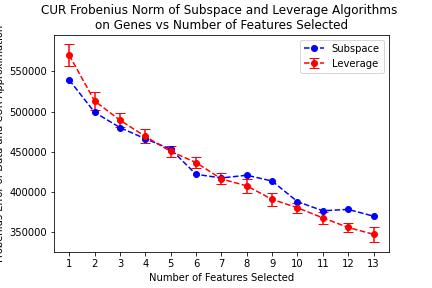
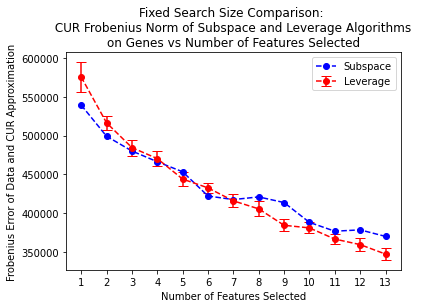
added graph for runtime comparison

Changed region(s): [[0.0, 0.0, 0.9858, 1.0]]

diff --git a/src/Plotting/plots.py b/src/Plotting/plots.py
@@ -36,7 +36,7 @@ def plot_across_singular_vec(ylabel:str, title:str, subspace_data:np.array, leve
     plt.ylabel(ylabel)
     plt.legend()
     plt.title(title)
-    plt.savefig(save_path)
+    plt.savefig(save_path,bbox_inches="tight")
     plt.close()
 
 def plot_curs_dist(df: pd.DataFrame, max_singular_vector_num:int, constant_search_size:int, leverage_sample_size:int, save_path:str, data_name="Dataset"):
@@ -67,21 +67,21 @@ def plot_curs_dist(df: pd.DataFrame, max_singular_vector_num:int, constant_searc
         leverage_col_dist_sd.append(leverage_col_s)
         leverage_row_dist_sd.append(leverage_row_s)
     plot_across_singular_vec("Frobenius Error of Data and CUR Approximation",
-        f"CUR Frobenius Norm of Subspace and Leverage Algorithms \non {data_name} vs Number of Features Selected",
+        f"Fixed Search Size Comparison: \n CUR Frobenius Norm of Subspace and Leverage Algorithms \non {data_name} vs Number of Features Selected",
         subspace_cur_dist,
         leverage_cur_dist,
         leverage_cur_dist_sd,
         max_singular_vector_num,
         save_path + f"{data_name}_CUR.png")
     plot_across_singular_vec("Projection Frobenius Error",
-        f"Projection Distance of Subspace and Leverage Algorithms \non {data_name}'s Columns vs Number of Features Selected",
+        f"Fixed Search Size Comparison: \n Projection Distance of Subspace and Leverage Algorithms \non {data_name}'s Columns vs Number of Features Selected",
         subspace_col_dist,
         leverage_col_dist,
         leverage_col_dist_sd,
         max_singular_vector_num,
         save_path + f"{data_name}_Col.png")
     plot_across_singular_vec("Projection Frobenius Error",
-        f"Projection Distance of Subspace and Leverage Algorithms \non {data_name}'s Rows vs Number of Features Selected",
+        f"Fixed Search Size Comparison: \n Projection Distance of Subspace and Leverage Algorithms \non {data_name}'s Rows vs Number of Features Selected",
         subspace_row_dist,
         leverage_row_dist,
         leverage_row_dist_sd,
@@ -128,3 +128,57 @@ def plot_curs_time(df:pd.DataFrame, max_singular_vect_num:int, constant_search_s
     plt.title(f"Runtime of Subspace and Leverage Algorithm's CUR \non {data_name} vs Number of Features Selected")
     plt.savefig(save_path + f"{data_name}_Time.png")
     plt.close()
+
+def plot_cur_runtime(df:pd.DataFrame, max_singular_vect_num:int, constant_search_size:int, leverage_sample_size:int, iterations:int, save_path:str, data_name="Dataset"):
+    subspace_col_dist = []
+    leverage_col_dist = []
+    subspace_row_dist = []
+    leverage_row_dist = []
+    subspace_cur_dist = []
+    leverage_cur_dist = []
+    leverage_col_dist_sd = []
+    leverage_row_dist_sd = []
+    leverage_cur_dist_sd = []
+    for i in range(1, max_singular_vect_num+1):
+        print(i)
+        subspace_av_time,_ = avg_sd_time(subspace_cur,iterations, df, i, constant_search_size)
+        leverage_av_time = 0
+        hyper_search = 0
+        while leverage_av_time < subspace_av_time:
+            hyper_search += 1
+            leverage_av_time, _ = avg_sd_time(leverage_cur,iterations, df, i, hyper_search)
+        
+        _, _, _, dists = subspace_cur(df,i,constant_search_size)
+        subspace_col_dist.append(dists["col_dist"])
+        subspace_row_dist.append(dists["row_dist"])
+        subspace_cur_dist.append(dists["cur_dist"])
+        (leverage_row_a, leverage_row_s, leverage_col_a, 
+        leverage_col_s, leverage_cur_a, leverage_cur_s) = sample_from_leverage_cur(df, i, hyper_search, leverage_sample_size)
+        leverage_row_dist.append(leverage_row_a)
+        leverage_col_dist.append(leverage_col_a)
+        leverage_cur_dist.append(leverage_cur_a)
+        leverage_cur_dist_sd.append(leverage_cur_s)
+        leverage_col_dist_sd.append(leverage_col_s)
+        leverage_row_dist_sd.append(leverage_row_s)
+
+    plot_across_singular_vec("Frobenius Error of Data and CUR Approximation",
+        f"Runtime Comparison:\n CUR Frobenius Norm of Subspace and Leverage Algorithms \non {data_name} vs Number of Features Selected",
+        subspace_cur_dist,
+        leverage_cur_dist,
+        leverage_cur_dist_sd,
+        max_singular_vect_num,
+        save_path + f"{data_name}_Runtime_CUR.png")
+    plot_across_singular_vec("Projection Frobenius Error",
+        f"Runtime Comparison:\n Projection Distance of Subspace and Leverage Algorithms \non {data_name}'s Columns vs Number of Features Selected",
+        subspace_col_dist,
+        leverage_col_dist,
+        leverage_col_dist_sd,
+        max_singular_vect_num,
+        save_path + f"{data_name}_Runtime_Col.png")
+    plot_across_singular_vec("Projection Frobenius Error",
+        f"Runtime Comparison: \n Projection Distance of Subspace and Leverage Algorithms \non {data_name}'s Rows vs Number of Features Selected",
+        subspace_row_dist,
+        leverage_row_dist,
+        leverage_row_dist_sd,
+        max_singular_vect_num,
+        save_path + f"{data_name}_Runtime_Row.png")

diff --git a/main.py b/main.py
@@ -1,10 +1,13 @@
-from src.Plotting.plots import plot_curs_dist, plot_curs_time
+from src.Plotting.plots import plot_curs_dist, plot_curs_time, plot_cur_runtime
 from src.Cur.cur_decompositions import leverage_cur, subspace_cur
 from sklearn.datasets import load_boston
 import pandas as pd
 
 if __name__ == '__main__':
     print("demo run")
+    #boston = pd.DataFrame(load_boston(return_X_y=True)[0])
+    #plot_curs_dist(boston, 10, 13, 25, "./Figs/boston/")
+    #plot_curs_time(boston, 10, 13, 25, "./Figs/boston/")
     boston = pd.DataFrame(load_boston(return_X_y=True)[0])
-    plot_curs_dist(boston, 10, 13, 25, "./Figs/boston/")
-    plot_curs_time(boston, 10, 13, 25, "./Figs/boston/")
+    boston = boston - boston.mean(axis=0)
+    #plot_cur_runtime(boston, 4, 10, 20, 15, "./Figs/boston/", data_name="Boston")

diff --git a/src/Cur/leverage.py b/src/Cur/leverage.py
@@ -6,6 +6,11 @@ class Leverage (FeatureSelector):
         k gives the number of singular vectors to use and c gives the 
         number of indicie sets to generate and minimize the Proj Distance 
         over. Returns the selected features and the distance away it is. 
+
+        IMPORTANT NOTE: unlike in the malhalony et all paper, the columns selected are not
+        rescaled. For the purposes of this paper, it was an unnecessary addition since the 
+        comparisons using this algorithm all have a projection of X onto C which is independant
+        of a resaling of the matrix C.
         '''
         if k == 0:
             raise Exception("singular vector number must be postive int")

diff --git a/src/Cur/subspace.py b/src/Cur/subspace.py
@@ -61,7 +61,10 @@ class Subspace(FeatureSelector):
         '''Performs the algorithm Subspace from the paper. Takes in 
         k, the total number of left singular vectors to use and c,
         the total number of index choices to minimize the Proj Distance over.
-        Returns the selected features and the distance away it is.'''
+        Returns the selected features and the distance away it is.
+        
+        A reasonable suggestion for k and c would be the total number of columns in your
+        dataframe divided by 4'''
         if k == 0:
             raise Exception("singular vector number must be postive int")
         if k > len(self.data.index):
